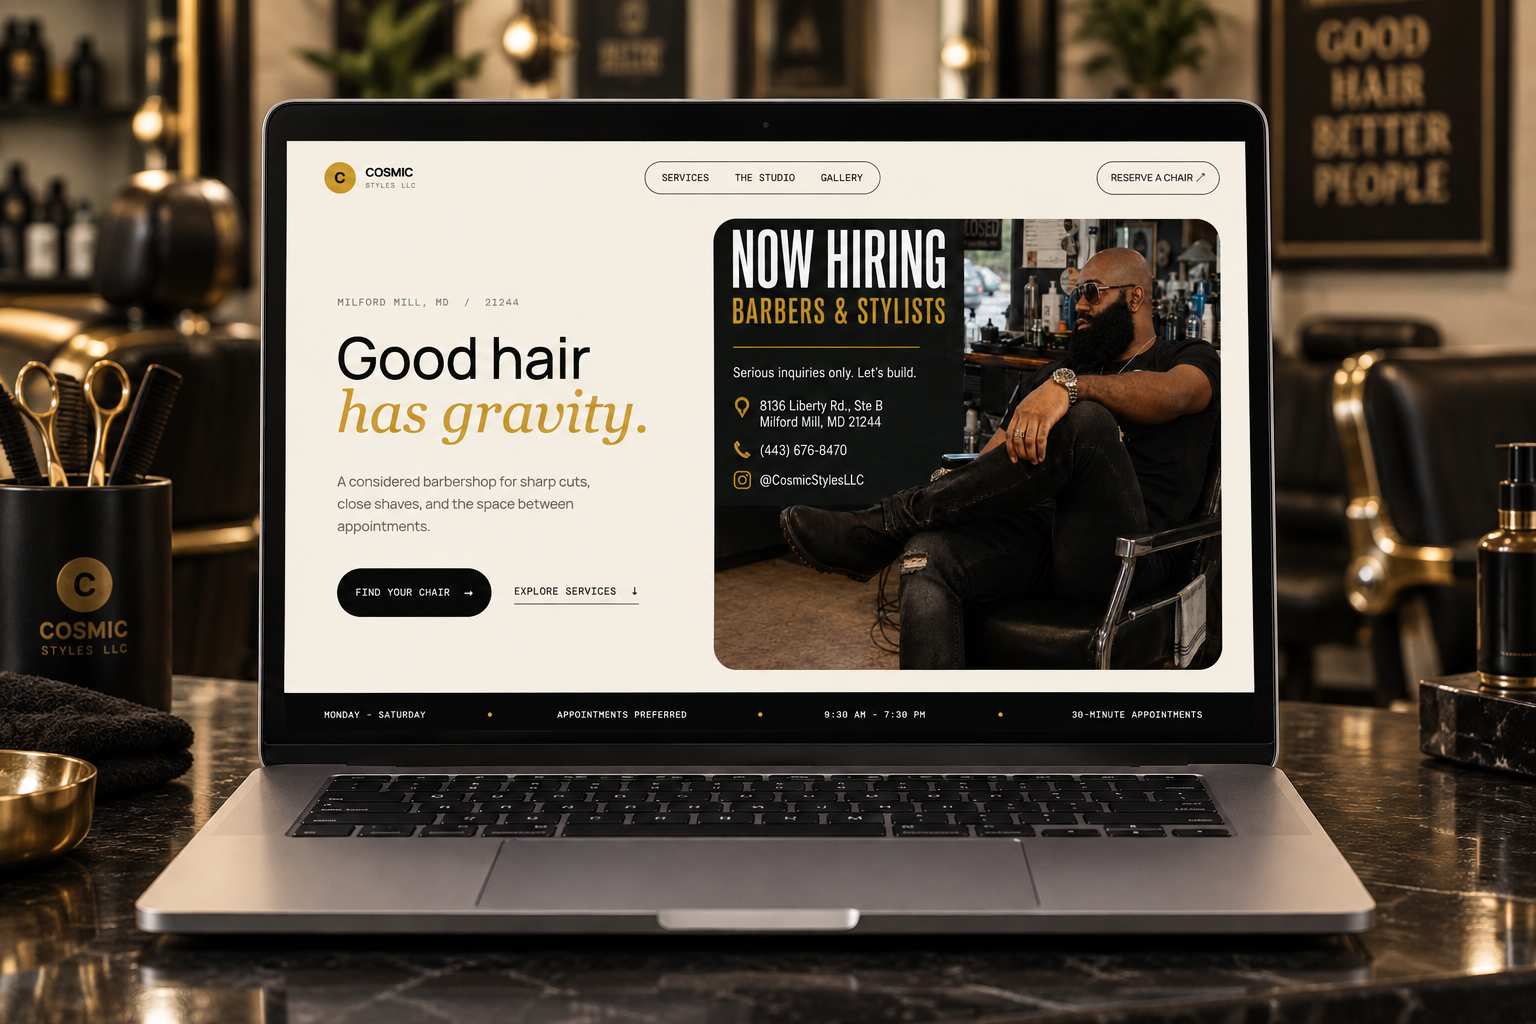
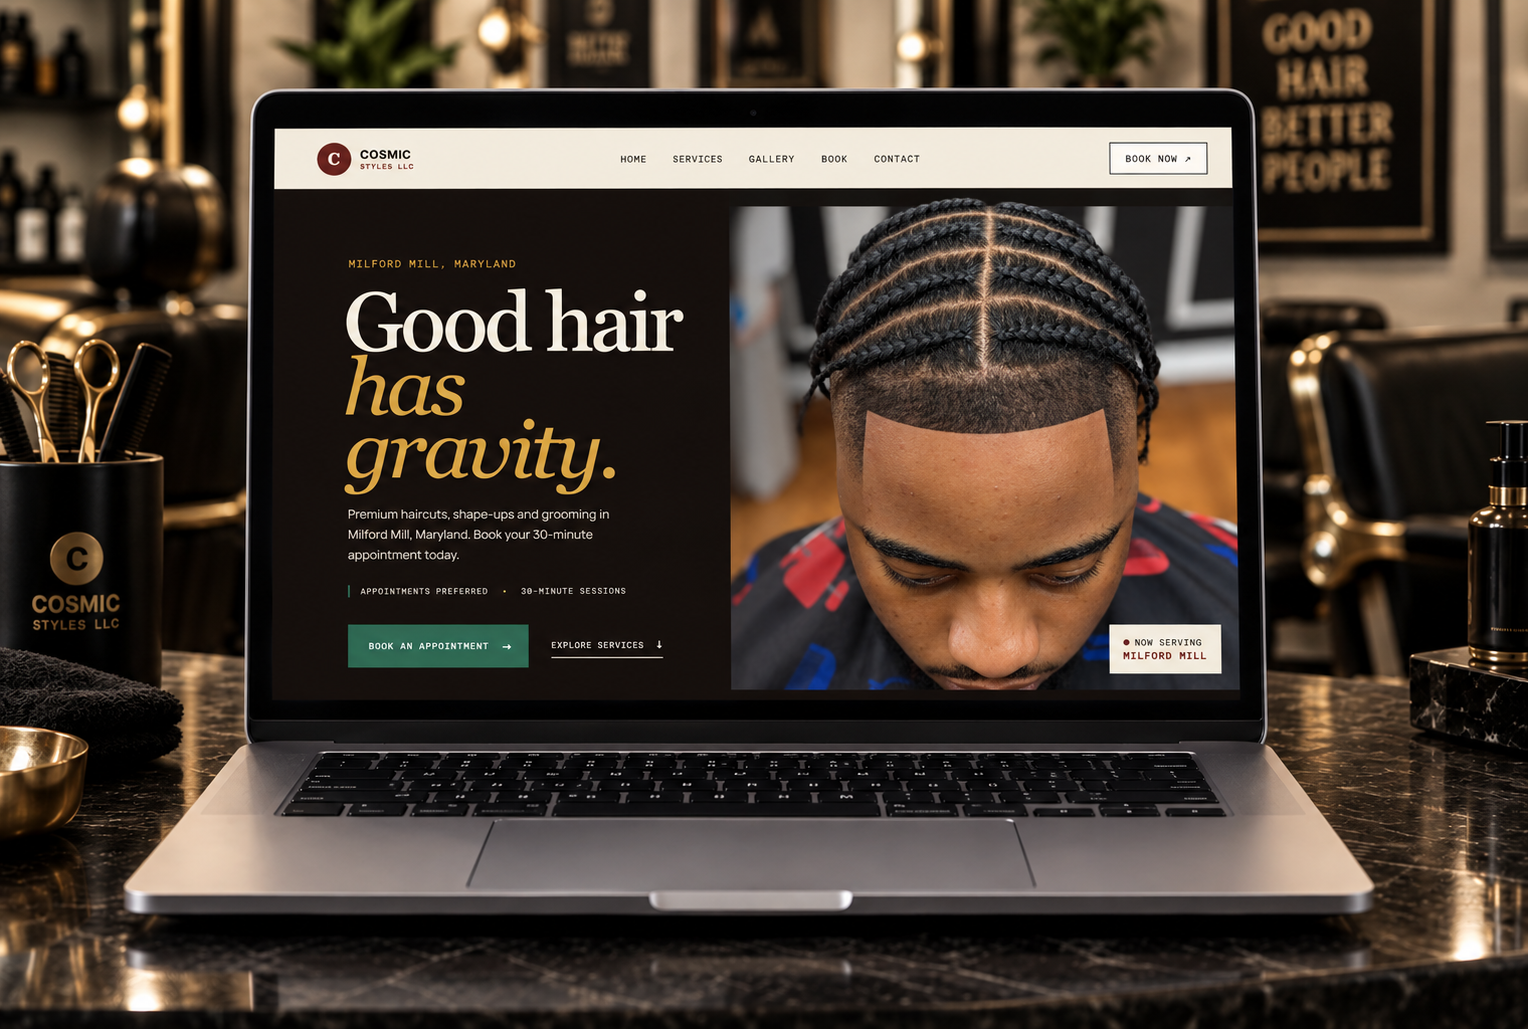
Fix case study navigation

diff --git a/app/projects/[slug]/page.tsx b/app/projects/[slug]/page.tsx
@@ -1,10 +1,12 @@
 /* oxlint-disable next/no-img-element */
 import type { Metadata } from 'next';
-import { ArrowUpRight, Check, Code2, Download, Layers3 } from 'lucide-react';
+import { ArrowLeft, ArrowUpRight, Check, Code2, Layers3 } from 'lucide-react';
 import Link from 'next/link';
 import { notFound } from 'next/navigation';
 
 import { buttonVariants } from '@/components/ui/button';
+import { CaseStudyHeader } from '@/components/case-study-header';
+import { TechnologyIcon } from '@/components/technology-icon';
 import { getProject, projects } from '@/lib/projects';
 import { portfolioCopy, projectCopy, type Language } from '@/lib/portfolio-content';
 
@@ -51,12 +53,15 @@ export default async function ProjectPage({ params, searchParams }: ProjectPageP
   const { slug } = await params;
   const project = getProject(slug);
   if (!project) notFound();
+  const projectOrder = ['penee', 'itemvault', 'cosmic-styles'];
+  const orderedProjects = projectOrder.map((projectSlug) => getProject(projectSlug)).filter((item): item is NonNullable<typeof item> => Boolean(item));
+  const projectIndex = orderedProjects.findIndex((item) => item.slug === slug);
+  const previousProject = projectIndex > 0 ? orderedProjects[projectIndex - 1] : undefined;
+  const nextProject = projectIndex < orderedProjects.length - 1 ? orderedProjects[projectIndex + 1] : undefined;
   const query = searchParams ? await searchParams : undefined;
   const language: Language = query?.lang === 'de' ? 'de' : 'en';
   const localized = projectCopy[slug]?.[language];
   const siteCopy = portfolioCopy[language];
-  const sectionIds = ['top', 'projects', 'skills', 'about', 'experience', 'qualifications', 'contact'];
-  const cvHref = language === 'de' ? '/Yasser-Akanni-CV-German.pdf' : '/Yasser-Akanni-CV-English.pdf';
   const localizedType = language === 'de'
     ? ({
       penee: 'Full-Stack-Finanzanwendung',
@@ -72,8 +77,8 @@ export default async function ProjectPage({ params, searchParams }: ProjectPageP
     }[slug] ?? project.imageAlt)
     : project.imageAlt;
   const labels = language === 'de'
-    ? { overview: 'Überblick', problem: 'Problem', contribution: 'Mein Beitrag', decision: 'Technische Entscheidung', features: 'Umgesetzte Funktionen', architecture: 'Architektur', technologies: 'Technologien', coreFeatures: 'Kernfunktionen', projectType: 'Projekttyp', technology: 'Technologie', home: 'Startseite', allProjects: 'Alle Projekte', switchLanguage: 'English', continue: 'Weiter entdecken', selection: 'Die vollständige Projektauswahl ansehen', back: 'Zurück zu Projekten' }
-    : { overview: 'Overview', problem: 'Problem', contribution: 'My contribution', decision: 'Technical decision', features: 'Implemented functionality', architecture: 'Architecture', technologies: 'Technologies', coreFeatures: 'Core features', projectType: 'Project type', technology: 'Technology', home: 'Home', allProjects: 'All projects', switchLanguage: 'Deutsch', continue: 'Continue exploring', selection: 'See the complete project selection.', back: 'Back to projects' };
+    ? { overview: 'Überblick', problem: 'Problem', contribution: 'Mein Beitrag', decision: 'Technische Entscheidung', features: 'Umgesetzte Funktionen', architecture: 'Architektur', technologies: 'Technologien', coreFeatures: 'Kernfunktionen', projectType: 'Projekttyp', technology: 'Technologie', allProjects: 'Alle Projekte', switchLanguage: 'English', nextProject: 'Nächstes Projekt', previousProject: 'Vorheriges Projekt', exploreProjects: 'Projekte entdecken' }
+    : { overview: 'Overview', problem: 'Problem', contribution: 'My contribution', decision: 'Technical decision', features: 'Implemented functionality', architecture: 'Architecture', technologies: 'Technologies', coreFeatures: 'Core features', projectType: 'Project type', technology: 'Technology', allProjects: 'All projects', switchLanguage: 'Deutsch', nextProject: 'Next project', previousProject: 'Previous project', exploreProjects: 'Explore projects' };
 
   const narrative = [
     [labels.overview, localized?.summary ?? project.summary],
@@ -86,20 +91,7 @@ export default async function ProjectPage({ params, searchParams }: ProjectPageP
 
   return (
     <main className="case-study">
-      <header className="site-header case-header">
-        <Link className="wordmark" href={`/?lang=${language}#top`} aria-label={language === 'de' ? 'Zurück zum Portfolio von Yasser Akanni' : 'Back to Yasser Akanni portfolio'}><span>YA</span><span className="wordmark-name">Yasser Akanni</span></Link>
-        <nav aria-label={siteCopy.navLabel}>
-          {siteCopy.nav.map((label, index) => <Link href={`/?lang=${language}#${sectionIds[index]}`} key={sectionIds[index]}>{label}</Link>)}
-        </nav>
-        <div className="header-tools case-header-tools">
-          <Link className="header-cv" href={cvHref} download><Download size={14} /> {language === 'de' ? 'Lebenslauf' : 'CV'}</Link>
-          <div className="language-switcher" aria-label={language === 'de' ? 'Sprache wählen' : 'Choose language'}>
-            <Link aria-current={language === 'de' ? 'page' : undefined} href={`/projects/${slug}?lang=de`}>DE</Link>
-            <span aria-hidden="true">/</span>
-            <Link aria-current={language === 'en' ? 'page' : undefined} href={`/projects/${slug}?lang=en`}>EN</Link>
-          </div>
-        </div>
-      </header>
+      <CaseStudyHeader language={language} slug={slug} />
 
       <section className="case-hero">
         <div>
@@ -128,15 +120,18 @@ export default async function ProjectPage({ params, searchParams }: ProjectPageP
           {narrative.map(([title, copy]) => <article key={title}><p className="section-kicker">{title}</p><p>{copy}</p></article>)}
         </div>
         <aside className="case-sidebar">
-          <div className="case-panel"><Code2 /><p className="section-kicker">{labels.technologies}</p><ul>{project.technologies.map((tech) => <li key={tech}>{language === 'de' && tech === 'Responsive Design' ? 'Responsives Design' : tech}</li>)}</ul></div>
+          <div className="case-panel"><Code2 /><p className="section-kicker">{labels.technologies}</p><ul>{project.technologies.map((tech) => <li key={tech}><TechnologyIcon name={tech} />{language === 'de' && tech === 'Responsive Design' ? 'Responsives Design' : tech}</li>)}</ul></div>
           <div className="case-panel"><Layers3 /><p className="section-kicker">{labels.coreFeatures}</p><ul className="feature-list">{(localized?.features ?? project.features).map((feature) => <li key={feature}><Check />{feature}</li>)}</ul></div>
         </aside>
       </section>
 
       <section className="case-next">
-        <p className="section-kicker">{labels.continue}</p>
-        <h2>{labels.selection}</h2>
-        <Link className={`case-back-link ${buttonVariants({ variant: 'outline', size: 'lg' })}`} href={`/?lang=${language}#projects`}>{labels.back} <ArrowUpRight /></Link>
+        <p className="section-kicker">{previousProject && nextProject ? labels.exploreProjects : nextProject ? labels.nextProject : labels.previousProject}</p>
+        <h2>{previousProject && nextProject ? labels.exploreProjects : (nextProject ?? previousProject)?.name}</h2>
+        <div className="case-next-actions">
+          {previousProject && <Link className={`case-back-link case-previous-link ${buttonVariants({ variant: 'outline', size: 'lg' })}`} href={`/projects/${previousProject.slug}?lang=${language}`}><ArrowLeft /> {labels.previousProject}: {previousProject.name}</Link>}
+          {nextProject && <Link className={`case-back-link case-next-link ${buttonVariants({ variant: 'outline', size: 'lg' })}`} href={`/projects/${nextProject.slug}?lang=${language}`}>{labels.nextProject}: {nextProject.name} <ArrowUpRight /></Link>}
+        </div>
       </section>
     </main>
   );

diff --git a/app/globals.css b/app/globals.css
@@ -411,6 +411,8 @@ h3 { font-weight: 620; }
 .skill-title h3, .timeline-item h3, .certificate-card h3 { letter-spacing: -.035em; }
 .skill-group p, .case-grid p, .case-grid li, .timeline-item p, .certificate-card p { font-size: .9rem; line-height: 1.72; }
 .tech-list li, .strengths span, .case-panel li { font-family: var(--font-geist-mono); font-size: .62rem; letter-spacing: .01em; }
+.tech-list li, .case-panel li { display: inline-flex; align-items: center; gap: 6px; }
+.technology-icon { width: 17px; height: 17px; flex: 0 0 auto; opacity: 1; }
 .social-links a, .footer-links a, .text-link { font-size: .74rem; letter-spacing: .01em; }
 .button, [data-slot='button'] { font-weight: 620; letter-spacing: -.01em; }
 @media (max-width: 620px) {
@@ -568,7 +570,7 @@ main, footer { position: relative; z-index: 1; }
 .case-header-actions { gap: 18px; }
 .case-header-tools { gap: 18px; }
 .site-header.case-header { display: grid; grid-template-columns: auto minmax(0, 1fr) auto; justify-content: normal; }
-.case-home-link { color: var(--foreground); font-size: .72rem; font-weight: 700; letter-spacing: .04em; transition: color .2s ease, transform .2s ease; }
+.case-home-link { display: inline-flex; align-items: center; gap: 6px; color: var(--foreground); font-size: .72rem; font-weight: 700; letter-spacing: .04em; transition: color .2s ease, transform .2s ease; }
 .case-home-link:hover { color: var(--cool-blue); transform: translateY(-1px); }
 .case-language { padding: 9px 11px; border: 1px solid rgba(49,95,196,.25); border-radius: 999px; background: var(--cool-blue-soft); transition: transform .2s ease, background .2s ease; }
 .case-language:hover { transform: translateY(-1px); background: rgba(49,95,196,.18); }
@@ -600,6 +602,10 @@ main, footer { position: relative; z-index: 1; }
 .case-next { padding-block: clamp(80px, 9vw, 118px); border-top-color: var(--cool-blue); }
 .case-next h2 { max-width: 760px; }
 .case-next a { justify-self: end; }
+.case-next-actions { grid-column: 1 / -1; display: flex; flex-wrap: wrap; justify-content: space-between; width: 100%; gap: 18px; }
+.case-next-actions .case-back-link { justify-self: auto; }
+.case-previous-link { margin-right: auto; }
+.case-next-link { margin-left: auto; }
 @media (max-width: 900px) {
   .site-header { padding-inline: 18px; }
   .project-card { padding: 24px; border-radius: 20px; }
@@ -628,6 +634,7 @@ main, footer { position: relative; z-index: 1; }
   .case-image { border-radius: 16px; }
   .case-narrative article { padding-block: 28px; }
   .case-next a { justify-self: start; }
+  .case-next-actions { justify-content: space-between; }
 }
 
 @media (prefers-reduced-motion: reduce) {
@@ -840,22 +847,12 @@ h1 em, h2 em { color: var(--primary); }
 @media (prefers-reduced-motion: reduce) {
   .hero::before, .hero::after { display: none; }
 }
-.case-study .case-next::after {
-  content: 'NEXT';
-  position: absolute;
-  right: 0;
-  top: 32px;
-  color: rgba(49, 95, 196, .25);
-  font: 650 clamp(2.6rem, 5vw, 4.8rem) / 1 var(--font-geist-mono);
-  letter-spacing: -.1em;
-}
 .case-study .case-next a { position: relative; z-index: 1; border-color: var(--cool-blue); background: var(--cool-blue); color: white; }
 .case-study .case-next a:hover { background: var(--primary); border-color: var(--primary); }
 .project-preview, .project-card.featured-project .project-preview, .case-image { aspect-ratio: 3 / 2; }
 @media (max-width: 620px) {
   .case-study .case-narrative article { padding: 22px; }
   .case-study .case-hero h1::after { margin-top: 16px; }
-  .case-study .case-next::after { right: 0; top: 24px; font-size: 2.3rem; }
 }
 
 /* Completed qualification retains the existing certificate layout. */
@@ -1248,6 +1245,56 @@ footer span { color: #858a83; }
   border-color: var(--accent);
   background: rgba(200,245,90,.08);
   color: var(--accent);
+}
+
+/* Case-study frames follow the homepage card treatment. */
+.case-study .case-spec,
+.case-study .case-narrative article,
+.case-study .case-panel {
+  border: 1px solid rgba(255,255,255,.1);
+  background: #141614;
+  box-shadow: none;
+  transition: border-color 180ms ease, box-shadow 180ms ease, transform 180ms ease;
+}
+.case-study .case-spec:is(:hover, :focus-within),
+.case-study .case-narrative article:is(:hover, :focus-within),
+.case-study .case-panel:is(:hover, :focus-within) {
+  transform: translateY(-2px);
+  border-color: rgba(200,245,90,.45);
+  box-shadow: 0 12px 28px rgba(0,0,0,.2);
+}
+.case-study .case-links a,
+.case-study .case-back-link {
+  border-radius: 999px !important;
+}
+
+/* Case-study navigation uses the full header width, like the homepage. */
+.site-header.case-header {
+  width: 100%;
+  max-width: none;
+  margin-inline: 0;
+  padding-inline: clamp(18px, 4vw, 64px);
+}
+
+/* Keep case-study descriptions fully legible on the dark surface. */
+.case-study .case-hero > div:first-child > p:not(.section-kicker),
+.case-study .case-narrative article > p:last-child,
+.case-study .case-panel li {
+  color: #f4f6f1;
+}
+
+/* Use one corner treatment for every interactive action. */
+.header-cv,
+.hero-actions a,
+.hero-actions .cv-downloads a,
+.project-links > a[data-slot='button'],
+.case-links a,
+.case-next a,
+.case-back-link,
+.certificate-link,
+.form-submit button,
+.contact-links a {
+  border-radius: 999px !important;
 }
 @media (max-width: 700px) {
   .legal-site-header { column-gap: 12px; }

diff --git a/components/case-study-header.tsx b/components/case-study-header.tsx
@@ -1,0 +1,35 @@
+'use client';
+
+import Link from 'next/link';
+import { Download, Menu, X } from 'lucide-react';
+import { useState } from 'react';
+
+import { portfolioCopy, type Language } from '@/lib/portfolio-content';
+
+const sectionIds = ['top', 'projects', 'skills', 'about', 'experience', 'qualifications', 'contact'];
+
+export function CaseStudyHeader({ language, slug }: { language: Language; slug: string }) {
+  const [menuOpen, setMenuOpen] = useState(false);
+  const siteCopy = portfolioCopy[language];
+  const cvHref = language === 'de' ? '/Yasser-Akanni-CV-German.pdf' : '/Yasser-Akanni-CV-English.pdf';
+
+  return (
+    <header className={`site-header case-header${menuOpen ? ' menu-open' : ''}`}>
+      <Link className="wordmark" href={`/?lang=${language}`} aria-label={language === 'de' ? 'Zurück zum Portfolio von Yasser Akanni' : 'Back to Yasser Akanni portfolio'}><span>YA</span><span className="wordmark-name">Yasser Akanni</span></Link>
+      <button className="nav-toggle" type="button" aria-expanded={menuOpen} aria-controls="case-study-navigation" onClick={() => setMenuOpen((open) => !open)}>
+        <span className="sr-only">{language === 'de' ? 'Menü' : 'Menu'}</span>{menuOpen ? <X /> : <Menu />}
+      </button>
+      <nav id="case-study-navigation" aria-label={siteCopy.navLabel}>
+        {siteCopy.nav.map((label, index) => <Link href={`/?lang=${language}#${sectionIds[index]}`} key={sectionIds[index]} onClick={() => setMenuOpen(false)}>{label}</Link>)}
+      </nav>
+      <div className="header-tools case-header-tools">
+        <Link className="header-cv" href={cvHref} download><Download size={14} /> {language === 'de' ? 'Lebenslauf' : 'CV'}</Link>
+        <div className="language-switcher" aria-label={language === 'de' ? 'Sprache wählen' : 'Choose language'}>
+          <Link aria-current={language === 'de' ? 'page' : undefined} href={`/projects/${slug}?lang=de`}>DE</Link>
+          <span aria-hidden="true">/</span>
+          <Link aria-current={language === 'en' ? 'page' : undefined} href={`/projects/${slug}?lang=en`}>EN</Link>
+        </div>
+      </div>
+    </header>
+  );
+}

diff --git a/components/technology-icon.tsx b/components/technology-icon.tsx
@@ -1,0 +1,58 @@
+import type { IconType } from 'react-icons';
+import {
+  SiCss,
+  SiFirebase,
+  SiHtml5,
+  SiJavascript,
+  SiNextdotjs,
+  SiPostgresql,
+  SiPrisma,
+  SiReact,
+  SiResend,
+  SiTypescript,
+  SiVercel,
+  SiVite,
+} from 'react-icons/si';
+
+const technologyIcons: Record<string, IconType> = {
+  'Next.js': SiNextdotjs,
+  React: SiReact,
+  TypeScript: SiTypescript,
+  PostgreSQL: SiPostgresql,
+  Prisma: SiPrisma,
+  'Prisma ORM': SiPrisma,
+  Vercel: SiVercel,
+  'Vercel Serverless Function': SiVercel,
+  Vite: SiVite,
+  Firebase: SiFirebase,
+  'Firebase Authentication': SiFirebase,
+  Firestore: SiFirebase,
+  HTML5: SiHtml5,
+  CSS3: SiCss,
+  JavaScript: SiJavascript,
+  'Resend API': SiResend,
+};
+
+const technologyColors: Record<string, string> = {
+  'Next.js': 'var(--accent)',
+  React: '#61dafb',
+  TypeScript: '#3178c6',
+  PostgreSQL: '#699eca',
+  Prisma: 'var(--accent)',
+  'Prisma ORM': 'var(--accent)',
+  Vercel: 'var(--accent)',
+  'Vercel Serverless Function': 'var(--accent)',
+  Vite: '#a98cff',
+  Firebase: '#ffca28',
+  'Firebase Authentication': '#ffca28',
+  Firestore: '#ffca28',
+  HTML5: '#e34f26',
+  CSS3: '#38bdf8',
+  JavaScript: '#f7df1e',
+  'Resend API': 'var(--accent)',
+};
+
+export function TechnologyIcon({ name }: { name: string }) {
+  const Icon = technologyIcons[name];
+  return Icon ? <Icon className="technology-icon" style={{ color: technologyColors[name] ?? 'var(--accent)' }} aria-hidden="true" focusable="false" /> : null;
+}

diff --git a/components/home-page.tsx b/components/home-page.tsx
@@ -25,6 +25,7 @@ import {
 } from 'lucide-react';
 
 import { ContactForm } from '@/components/contact-form';
+import { TechnologyIcon } from '@/components/technology-icon';
 import { buttonVariants } from '@/components/ui/button';
 import {
   experience,
@@ -139,7 +140,7 @@ export default function Home() {
   }, []);
 
   return (
-    <main>
+    <main id="top">
       <header ref={headerRef} className={`site-header${isScrolled ? ' is-scrolled' : ''}${menuOpen ? ' menu-open' : ''}`}>
         <a className="wordmark" href="#top" aria-label={copy.homeLabel}>
           <span>YA</span>
@@ -234,7 +235,7 @@ export default function Home() {
                     {content.features.slice(0, 3).map((feature) => <li key={feature}>{feature}</li>)}
                   </ul>
                   <ul className="tech-list" aria-label={`${project.name} ${language === 'de' ? 'Technologien' : 'technologies'}`}>
-                    {project.technologies.slice(0, 6).map((tech) => <li key={tech}>{language === 'de' && tech === 'Responsive Design' ? 'Responsives Design' : tech}</li>)}
+                    {project.technologies.slice(0, 6).map((tech) => <li key={tech}><TechnologyIcon name={tech} />{language === 'de' && tech === 'Responsive Design' ? 'Responsives Design' : tech}</li>)}
                   </ul>
                   <div className="project-links">
                     {project.links.map((link) => (

diff --git a/components/ui/button.tsx b/components/ui/button.tsx
@@ -4,7 +4,7 @@ import { cva, type VariantProps } from 'class-variance-authority';
 import { cn } from '@/lib/utils';
 
 const buttonVariants = cva(
-  "group/button inline-flex shrink-0 items-center justify-center rounded-lg border border-transparent bg-clip-padding text-sm font-medium whitespace-nowrap transition-all outline-none select-none focus-visible:border-ring focus-visible:ring-3 focus-visible:ring-ring/50 active:not-aria-[haspopup]:translate-y-px disabled:pointer-events-none disabled:opacity-50 aria-invalid:border-destructive aria-invalid:ring-3 aria-invalid:ring-destructive/20 dark:aria-invalid:border-destructive/50 dark:aria-invalid:ring-destructive/40 [&_svg]:pointer-events-none [&_svg]:shrink-0 [&_svg:not([class*='size-'])]:size-4",
+  "group/button inline-flex shrink-0 items-center justify-center rounded-full border border-transparent bg-clip-padding text-sm font-medium whitespace-nowrap transition-all outline-none select-none focus-visible:border-ring focus-visible:ring-3 focus-visible:ring-ring/50 active:not-aria-[haspopup]:translate-y-px disabled:pointer-events-none disabled:opacity-50 aria-invalid:border-destructive aria-invalid:ring-3 aria-invalid:ring-destructive/20 dark:aria-invalid:border-destructive/50 dark:aria-invalid:ring-destructive/40 [&_svg]:pointer-events-none [&_svg]:shrink-0 [&_svg:not([class*='size-'])]:size-4",
   {
     variants: {
       variant: {

diff --git a/components/privacy-page.tsx b/components/privacy-page.tsx
@@ -1,7 +1,7 @@
 'use client';
 
 import { useEffect, useRef, useState } from 'react';
-import { useRouter, useSearchParams } from 'next/navigation';
+import { useRouter } from 'next/navigation';
 import Link from 'next/link';
 import { ArrowLeft, Download, Menu, X } from 'lucide-react';
 
@@ -22,8 +22,7 @@ const privacyCopy = {
   },
 } as const;
 
-export function PrivacyPage() {
-  const language: Language = useSearchParams().get('lang') === 'de' ? 'de' : 'en';
+export function PrivacyPage({ language }: { language: Language }) {
   const router = useRouter();
   const [menuOpen, setMenuOpen] = useState(false);
   const menuButton = useRef<HTMLButtonElement>(null);

diff --git a/app/datenschutz/page.tsx b/app/datenschutz/page.tsx
@@ -12,6 +12,7 @@ export async function generateMetadata({ searchParams }: {
   return { title, description, openGraph: { title, description, url: `/datenschutz?lang=${isGerman ? 'de' : 'en'}` }, twitter: { title, description } };
 }
 
-export default function PrivacyRoute() {
-  return <PrivacyPage />;
+export default async function PrivacyRoute({ searchParams }: { searchParams: Promise<{ lang?: string }> }) {
+  const language = (await searchParams).lang === 'de' ? 'de' : 'en';
+  return <PrivacyPage language={language} />;
 }

diff --git a/app/privacy/page.tsx b/app/privacy/page.tsx
@@ -1,0 +1,14 @@
+import type { Metadata } from 'next';
+
+import { PrivacyPage } from '@/components/privacy-page';
+
+export const metadata: Metadata = {
+  title: 'Privacy policy | Yasser Akanni',
+  description: 'Privacy policy for the portfolio of Yasser Akanni.',
+  openGraph: { title: 'Privacy policy | Yasser Akanni', url: '/privacy' },
+  twitter: { title: 'Privacy policy | Yasser Akanni' },
+};
+
+export default function PrivacyRoute() {
+  return <PrivacyPage language="en" />;
+}
